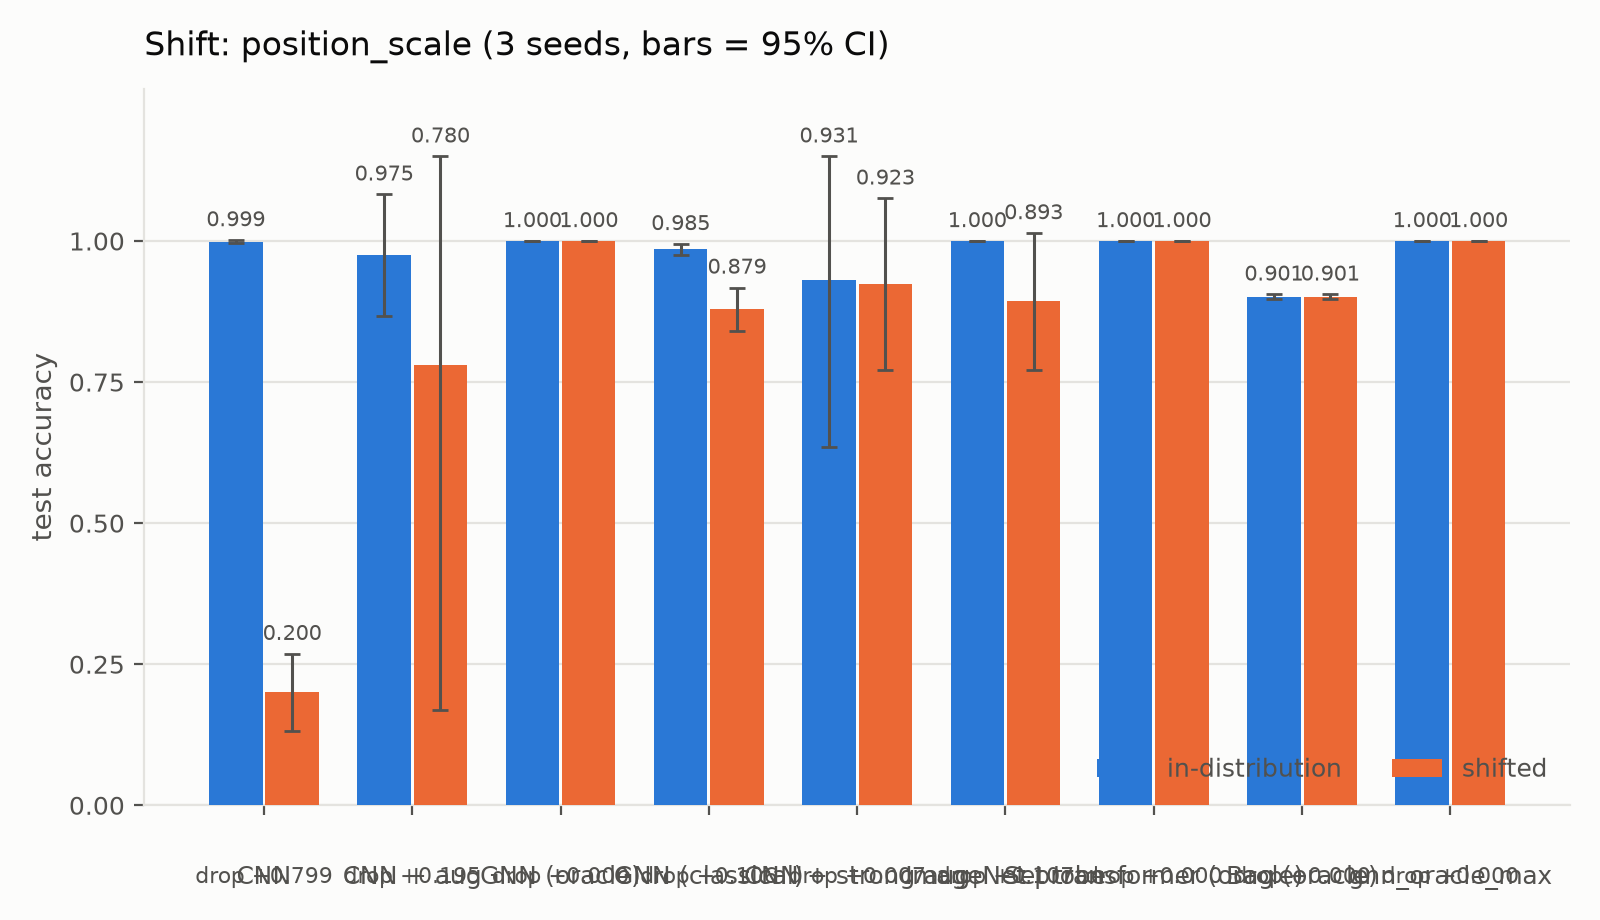
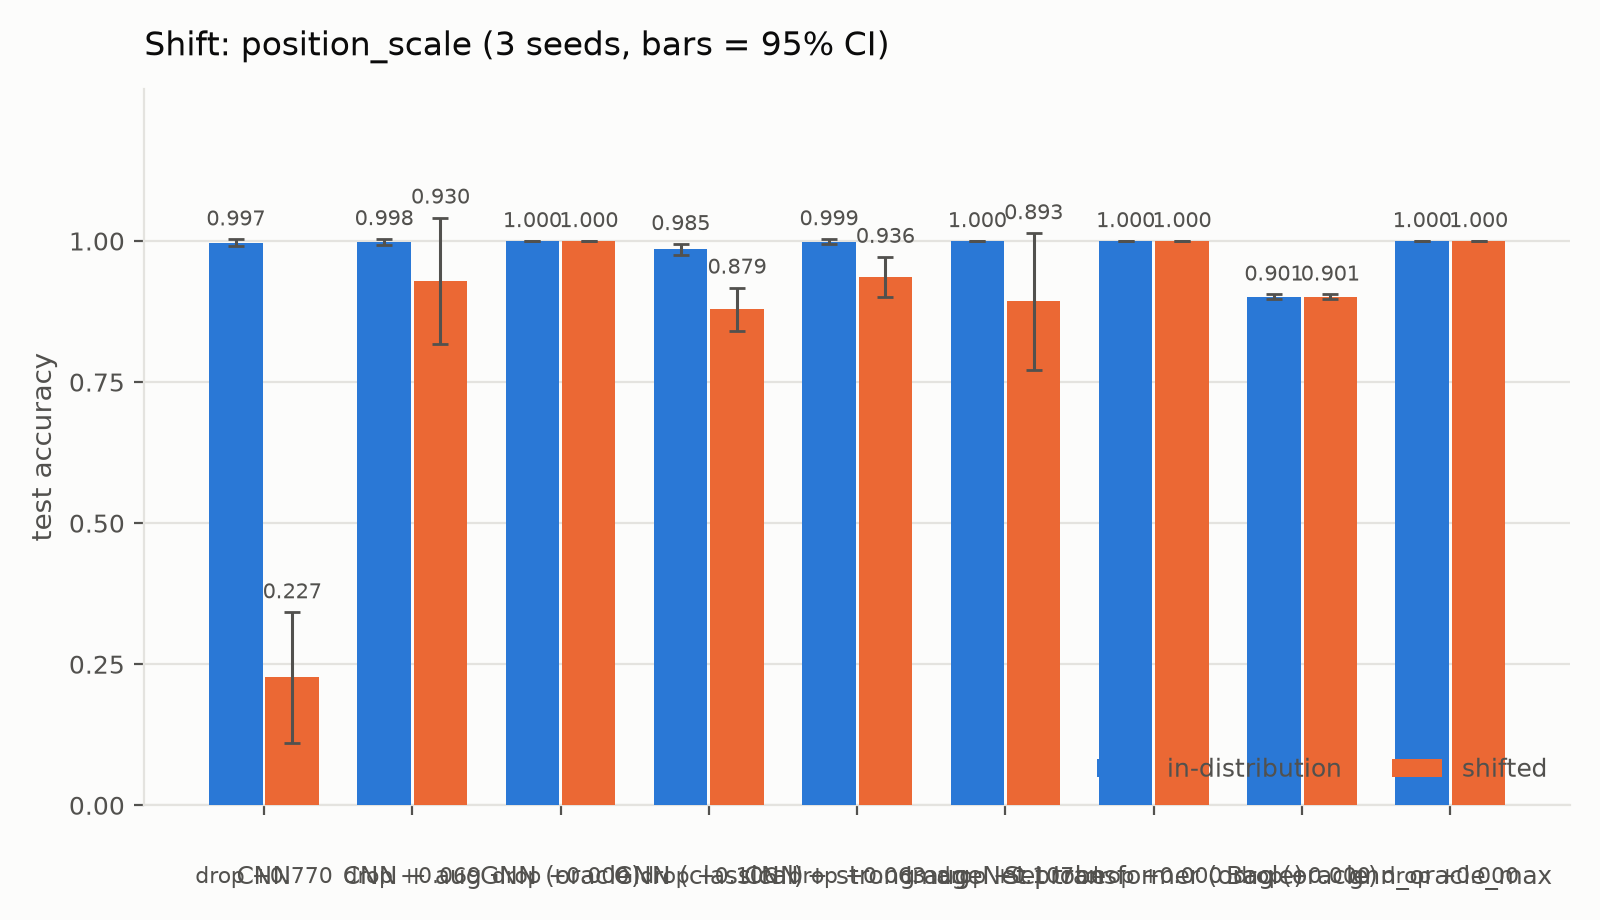
Checkpoint experiment results (shift_position_scale plots)
Claude-Session: https://claude.ai/code/session_01SojNaaWHiJoRRuxsTd6pEi

diff --git a/results/phase1/shift_position_scale/results.md b/results/phase1/shift_position_scale/results.md
@@ -12,11 +12,11 @@ Validation follows the *training* distribution: at selection time the shifted di
 
 | model | in-distribution | shifted | drop | val accuracy | extractor F1 | params |
 |---|---|---|---|---|---|---|
-| CNN | 0.999 ± 0.003 | 0.200 ± 0.068 | 0.799 ± 0.066 | 1.000 ± 0.000 | - | 11,173,962 |
-| CNN + aug | 0.975 ± 0.108 | 0.780 ± 0.612 | 0.195 ± 0.505 | 0.979 ± 0.090 | - | 11,173,962 |
+| CNN | 0.997 ± 0.006 | 0.227 ± 0.115 | 0.770 ± 0.109 | 1.000 ± 0.000 | - | 11,173,962 |
+| CNN + aug | 0.998 ± 0.005 | 0.930 ± 0.112 | 0.069 ± 0.108 | 1.000 ± 0.000 | - | 11,173,962 |
 | GNN (oracle) | 1.000 ± 0.000 | 1.000 ± 0.000 | 0.000 ± 0.000 | 1.000 ± 0.000 | 1.000 ± 0.000 | 57,549 |
 | GNN (classical) | 0.985 ± 0.009 | 0.879 ± 0.038 | 0.106 ± 0.032 | 0.989 ± 0.013 | 0.793 ± 0.000 | 57,549 |
-| CNN + strong aug | 0.931 ± 0.296 | 0.923 ± 0.152 | 0.007 ± 0.230 | 0.932 ± 0.294 | - | 11,173,962 |
+| CNN + strong aug | 0.999 ± 0.004 | 0.936 ± 0.036 | 0.063 ± 0.032 | 1.000 ± 0.000 | - | 11,173,962 |
 | ImageNet probe | 1.000 ± 0.000 | 0.893 ± 0.121 | 0.107 ± 0.121 | 1.000 ± 0.000 | - | 11,181,642 |
 | Set transformer (oracle) | 1.000 ± 0.000 | 1.000 ± 0.000 | 0.000 ± 0.000 | 1.000 ± 0.000 | 1.000 ± 0.000 | 89,290 |
 | Bag (oracle) | 0.901 ± 0.004 | 0.901 ± 0.004 | 0.000 ± 0.000 | 0.911 ± 0.041 | 1.000 ± 0.000 | 5,642 |
